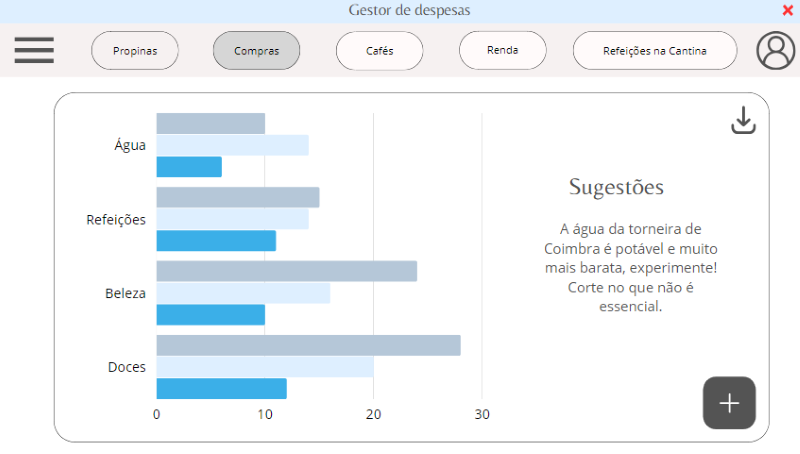
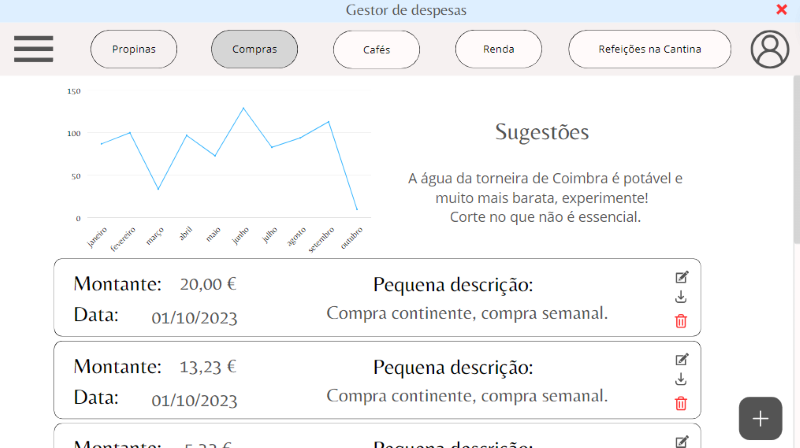
mais mockups

diff --git a/README.md b/README.md
@@ -112,6 +112,8 @@ It is assumed:
 
 ![Adicionar despesas](imgs/adicionar_despesa.png)
 
+![Resultado adicionar despesas](imgs/visualizacao_pos_adicao_despesa.png)
+
 ![Despesas por categotia](imgs/despesas_compras.png)
 
 ![Despesas](imgs/despesas.png)
@@ -151,6 +153,7 @@ It is a collection of criteria that must be completed for a User Story to be con
 ***
 
 ##### User Story 1
+
 As a new user,
 I want to be able to create a new account,
 So that I can start using it and mange my finances effectively.
@@ -169,12 +172,14 @@ Priorities  - Must have (M)
 - After clicking the verification link in the email, I should receive a confirmation message in the software indicating that my account is active.
 - I should not be able to access the software features until my account is verified.
 - If I encounter any problems during login, such as an invalid email or password, I should receive clear error messages guiding me on how to reset the password.
+
 ***
 
 ##### User Story 2
-As a student, I want to be able to track my daily expenses and categorize them,so that I can gain insights into my spending habits.
 
-(Como estudante, quero ser capaz de controlar as minhas despesas diárias e categorizá-las (M), para saber mais sobre os meus gastos diários(S)).
+As a student, I want to be able to track my daily expenses,so that I can maintain an accurate record of my personal finances.
+
+(Como estudante, quero ser capaz de controlar as minhas despesas diárias (M), para saber mais sobre os meus gastos diários(S)).
 
 
 Story Points - 3M
@@ -182,14 +187,17 @@ Priorities  - Should Have (S)
 
 ###### Acceptance Criteria
 
+- After logging in, I should have an initial panel.
+- Furthermore, the software must have a very visible entry to enter my expenses.
+- I should be able to enter the amount spent, the date, a optional description and choose an existing category (e.g. food, canteen meals, tuition fees, transport, gym) or create a new one. 
+- The system must validate if the mandatory fields are filled in correctly.
+- After entry, expenses should be recorded and displayed in a list or panel in the application.
+- It should be possible to edit or delete previously entered expenses.
 
-- After logging in, I should have an initial panel that shows my weekly balance, in order to show the money I have set aside for that week, as well as a balance of what I have already spent.
-- Furthermore, the software must have a very visible option to enter my expenses.
-- I should be able to enter the amount spent, the date, a brief description and choose an existing category (e.g. food, canteen meals, tuition fees, transport, gym) or create a new one. I must be able to visualize graphs or clear and short information in each category about the monthly and weekly balance sheets.
-- I should receive reminders if I exceed preset spending limits.
 ***
 
 ##### User Story 3
+
 As a student, I want to analyze my spending patterns, So that I can better understand where my money is going and make informed financial decisions.
 
 (Como estudante, quero analisar os meus gastos (X), para entender para onde vai o meu dinheiro e tomar melhores decisões (C) ).
